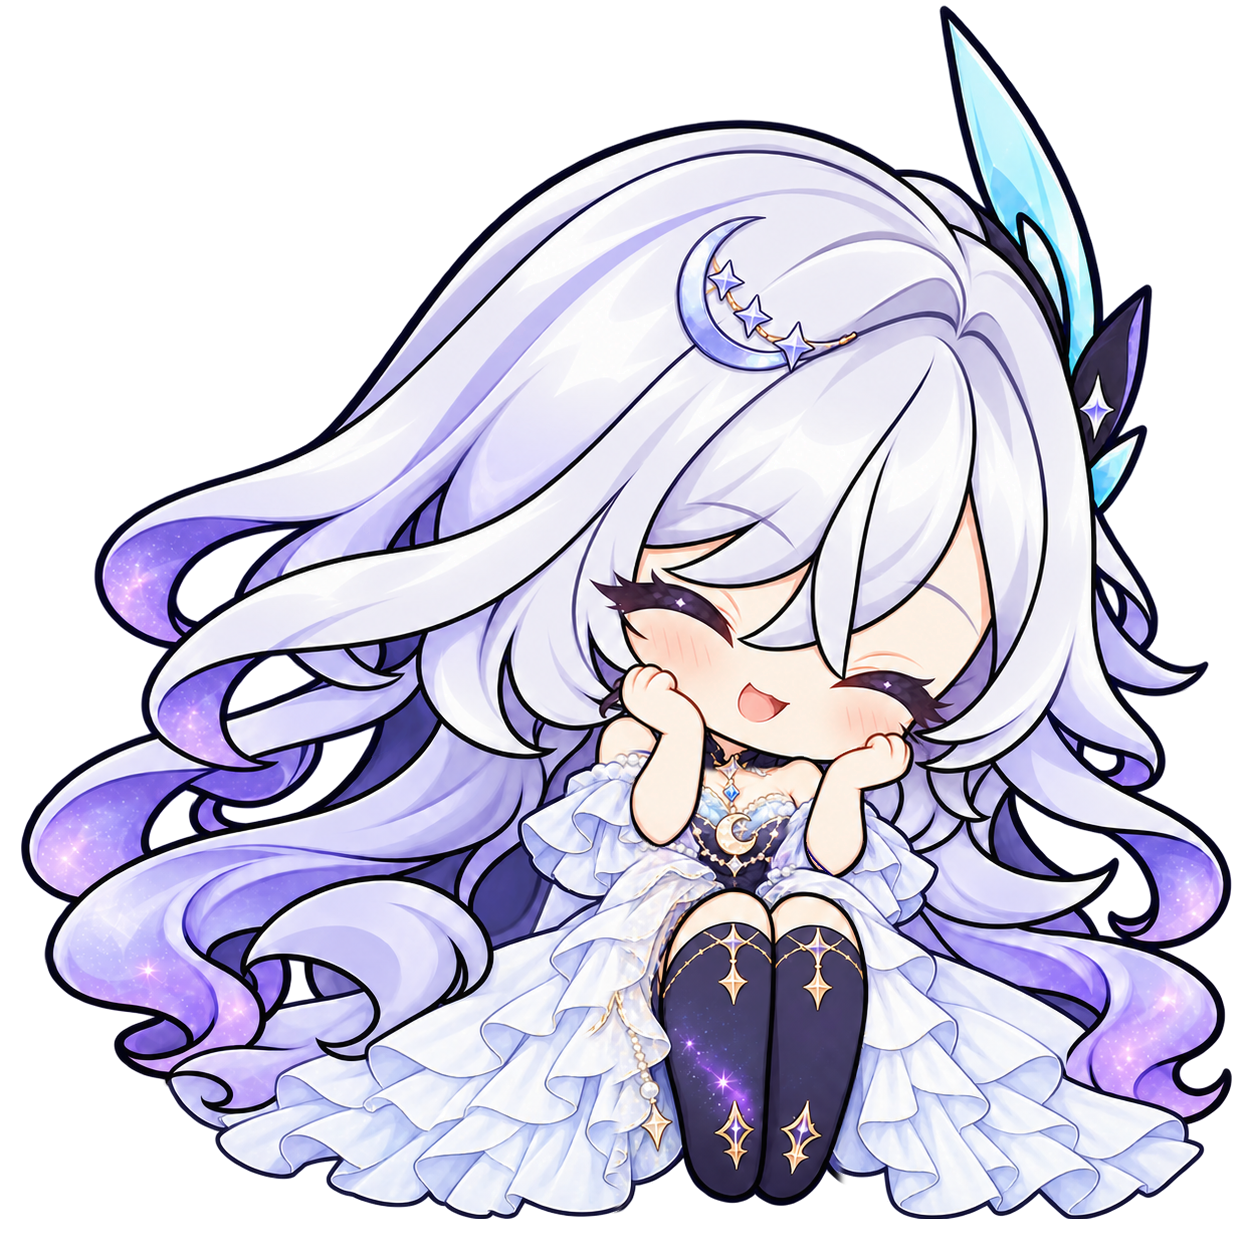
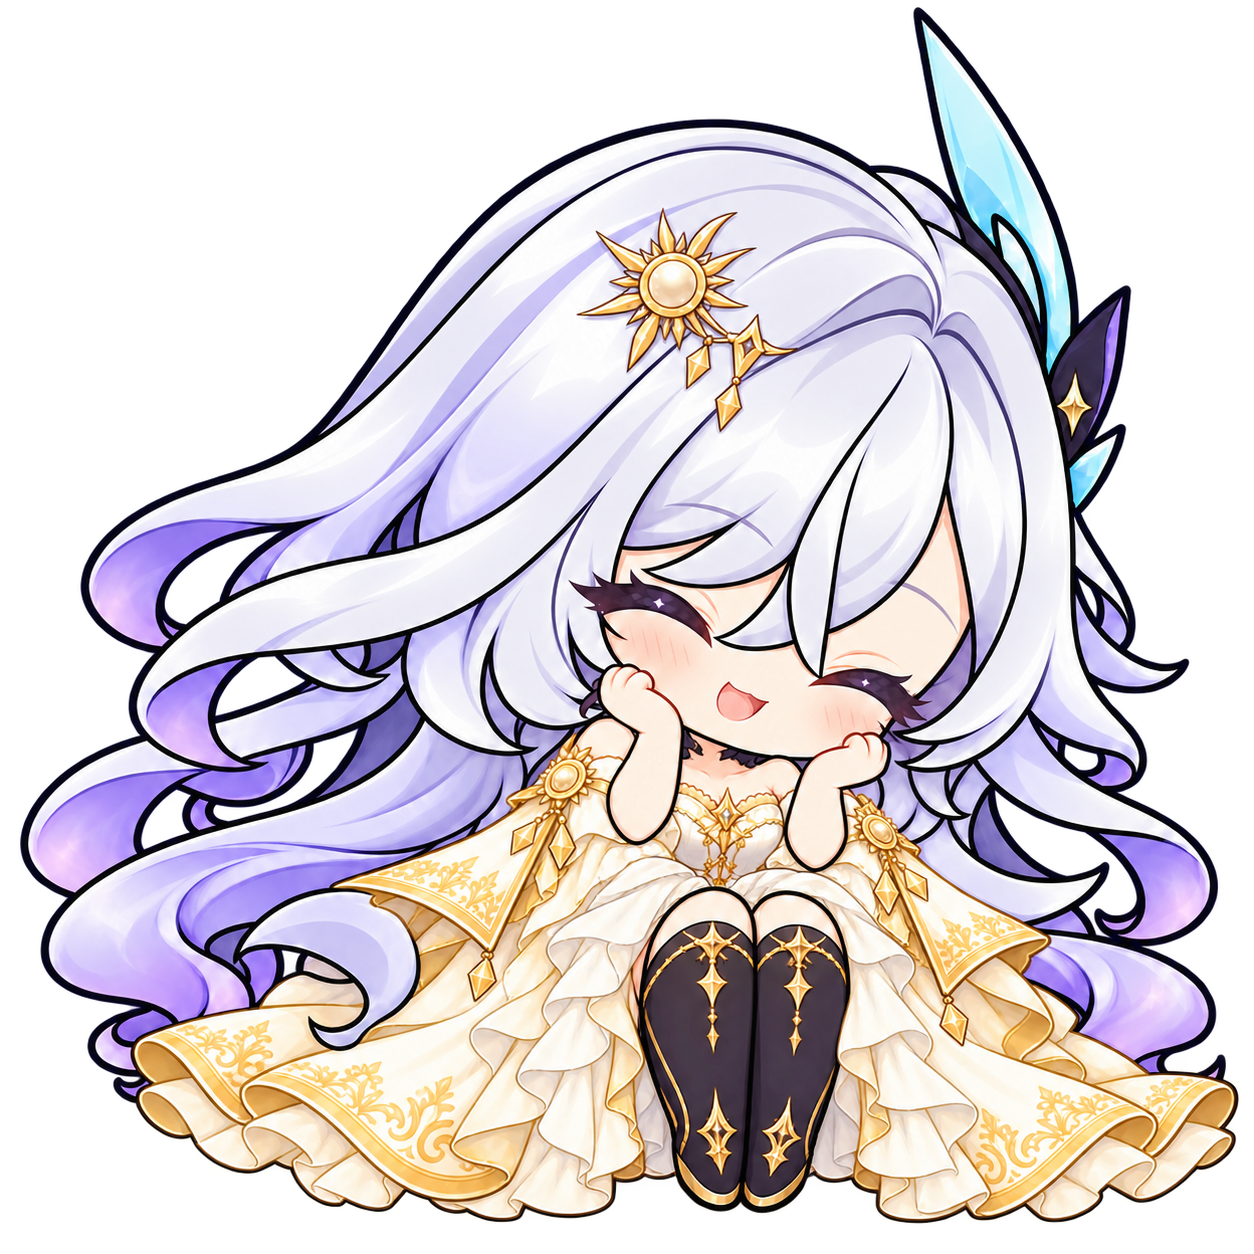
art: add Starsea gown headpat and expression frames
Complete 60 of 110 step-one sprites, retaining tier costume silhouettes and original headpat, cheek-poke and sad expressions. Cumulative image and visual QA recorded in HANDOFF; fifty frames remain. No step 2, code edits or publishing.

diff --git a/HANDOFF.md b/HANDOFF.md
@@ -1,5 +1,6 @@
 # Current Progress
-- IN PROGRESS: 40/110 generated and inspected; next redraw headpat_1/headpat_2 in all five tiers. Step 1 only; no paid API or push.
+- IN PROGRESS: 60/110 sprites saved; headpat pairs, poked_1 and sad_1 complete for all tiers. Next generate eye-only sad_blink from each new sad_1 and side-lying sleep_1/sleep_2; then thinking, typing and wave. Step 1 only; no paid API or push.
+- Resume milestone 60/110: all five tiers' headpat_1, headpat_2, poked_1 and sad_1 redrawn; the two headpat gestures, wink/puffed cheek and sad watery eyes inspected in comparison sheets. Cumulative 60 PNGs decode at 1254x1254 RGBA, all unique hashes, alpha 0..255, corners zero except a single alpha=1 residue pixel in xinghai/dragged_1 and fanxing/headpat_1. No new opaque-backdrop or dimension errors. Still only step 1; no paid API or runtime/code changes.
 - Resume milestone 2026-10-12: built-in quota recovered; added 22 sprites: yinhe/xinghai idle_4 plus all five tiers' idle_blink, celebrate_1, celebrate_2 and dragged_1. All tiers now have eight new frames (40/110); 70 requested frames remain. Idle blink, celebration and lifted-pose sheets viewed. All 40 decode at 1254x1254 RGBA with alpha 0..255 and unique SHA256s; corners are alpha 0 except one visually imperceptible alpha=1 pixel in xinghai/dragged_1. Its initial visible outer-cloth edge was regenerated; visible bbox now (47,12,1222,1230), inside canvas. Initial strict zero-corner QA failure and this generator residue are explicitly retained here; no opaque backdrop was introduced. Exact pixel registration/unchanged non-eye pixels and native animation acceptance remain unverified.
 - **2026-10-12 STARSEA GOWN STEP 1 IN PROGRESS — BUILT-IN GENERATION RESUMED.** New user assignment supersedes the historical V1.5 art restriction for this isolated art task. Worktree `D:\Documents\ChatGPT\petoken-outfits-starsea-gown`, branch `codex/outfits-starsea-gown`, base `ad44b23`; Claude's checkout/branch unchanged. No code edits, step 2, merge or push.
 - Prior checkpoint completed 18/110 requested sprite redraws: `assets/v2_5/outfits/starsea_gown/{fanxing,mingyue,haori}/idle_{1,2,3,4}.png` and `{yinhe,xinghai}/idle_{1,2,3}.png`. Added root `STARSEA_GOWN_PREVIEW.png`: five tiers in order fanxing, mingyue, haori, yinhe, xinghai, same idle_1 pose, large and 80px comparisons, no labels. Remaining 92 sprites and the five existing per-tier PREVIEW.png files retain baseline artwork. This partial mixed set is NOT a completed/accepted step 1.
@@ -98,7 +99,7 @@
 - Explicit Git allowlists. Current authorization permits GitHub main/tag/release as v1.3.0; APP_VERSION is promoted to1.3.0. Preserve local stable installation and unrelated .autopilot. Existing public repository and fast-forward history are retained.
 
 # Next Steps
-- [ ] (Starsea gown, highest priority) Continue built-in generation for every tier's `headpat_1`, `headpat_2`, `poked_1`, `sad_1`, `sad_blink`, `sleep_1`, `sleep_2`, `thinking_1`, `thinking_2`, `typing_1`, `typing_2`, `typing_3`, `wave_1`, `wave_2` (70 outstanding total). Blink variants must only close eyes on the corresponding new base frame. Check alignment/continuity and rarity differences, regenerate preview if masters change, then commit the COMPLETED step 1 locally and report its hash. Do not push or switch to paid API. Step 2 requires the user's acceptance of completed step 1.
+- [ ] (Starsea gown, highest priority) Continue built-in generation for every tier's `sad_blink`, `sleep_1`, `sleep_2`, `thinking_1`, `thinking_2`, `typing_1`, `typing_2`, `typing_3`, `wave_1`, `wave_2` (50 outstanding total). Blink variants must only close eyes on the corresponding new base frame. Check alignment/continuity and rarity differences, regenerate preview if masters change, then commit the COMPLETED step 1 locally and report its hash. Do not push or switch to paid API. Step 2 requires the user's acceptance of completed step 1.
 - [x] Human accepted V1.4; Codex V1.4 work ended.
 - [ ] Await next user assignment after V1.5 Codex-only local commit/report; user forwards shared compatibility UI and historical resize-test requirements to Claude.
 - Claude owns V1.5 shared integration/build/merge; human owns acceptance. Codex must not expand file scope, cross-review, merge, push, tag or publish.
@@ -113,7 +114,7 @@
 - No required release work remains; future changes need a new task. Local stable installation is not replaced.
 
 # Open Issues
-- Starsea gown step 1 remains incomplete at 40/110; generation resumed after quota recovery. The branch mixes new and old action art until the remaining 70 frames are redrawn. Exact registration/continuity/native integration not accepted; complete and verify them before declaring step 1 done. User chose built-in generation only; do not switch to paid API. No automatic wakeup is configured/available in this session.
+- Starsea gown step 1 remains incomplete at 60/110; generation resumed after quota recovery. The branch mixes new and old action art until the remaining 50 frames are redrawn. Exact registration/continuity/native integration not accepted; complete and verify them before declaring step 1 done. User chose built-in generation only; do not switch to paid API. No automatic wakeup is configured/available in this session.
 - Current V1.4 fixed Hub/artwork palette/project rows plus retained portrait/pager/checkbox/selection have bounded native/source and root frozen/package PASS. Fixed440x720 Hub cannot guarantee containment on smaller workareas. Human palette preference/beginner comprehension/daily usability/otherDPI and separate release approval remain pending. Synchronous locked saves take~289–311ms under the reviewed fault; local note data is plain text as documented.
 - Historical v1.3.0 candidate appearance/visual QA was accepted by the user; new V1.4 workbench human QA is pending. This does not establish exhaustive multi-monitor/fractional-DPI/tiny-workarea or physical activity detection coverage; no universal-device claim.
 - Current safe ring has up to8hits per page;24/64task universes are tested and production is not truncated to64. Whole composition requires enough workarea for body plus fixed hit footprints; impossible tiny workareas retain decoration without containment guarantee. Detail overlap/appearance remain human judgment. Synthetic poses prove rendering, not live physical keyboard/microphone/media detection.
